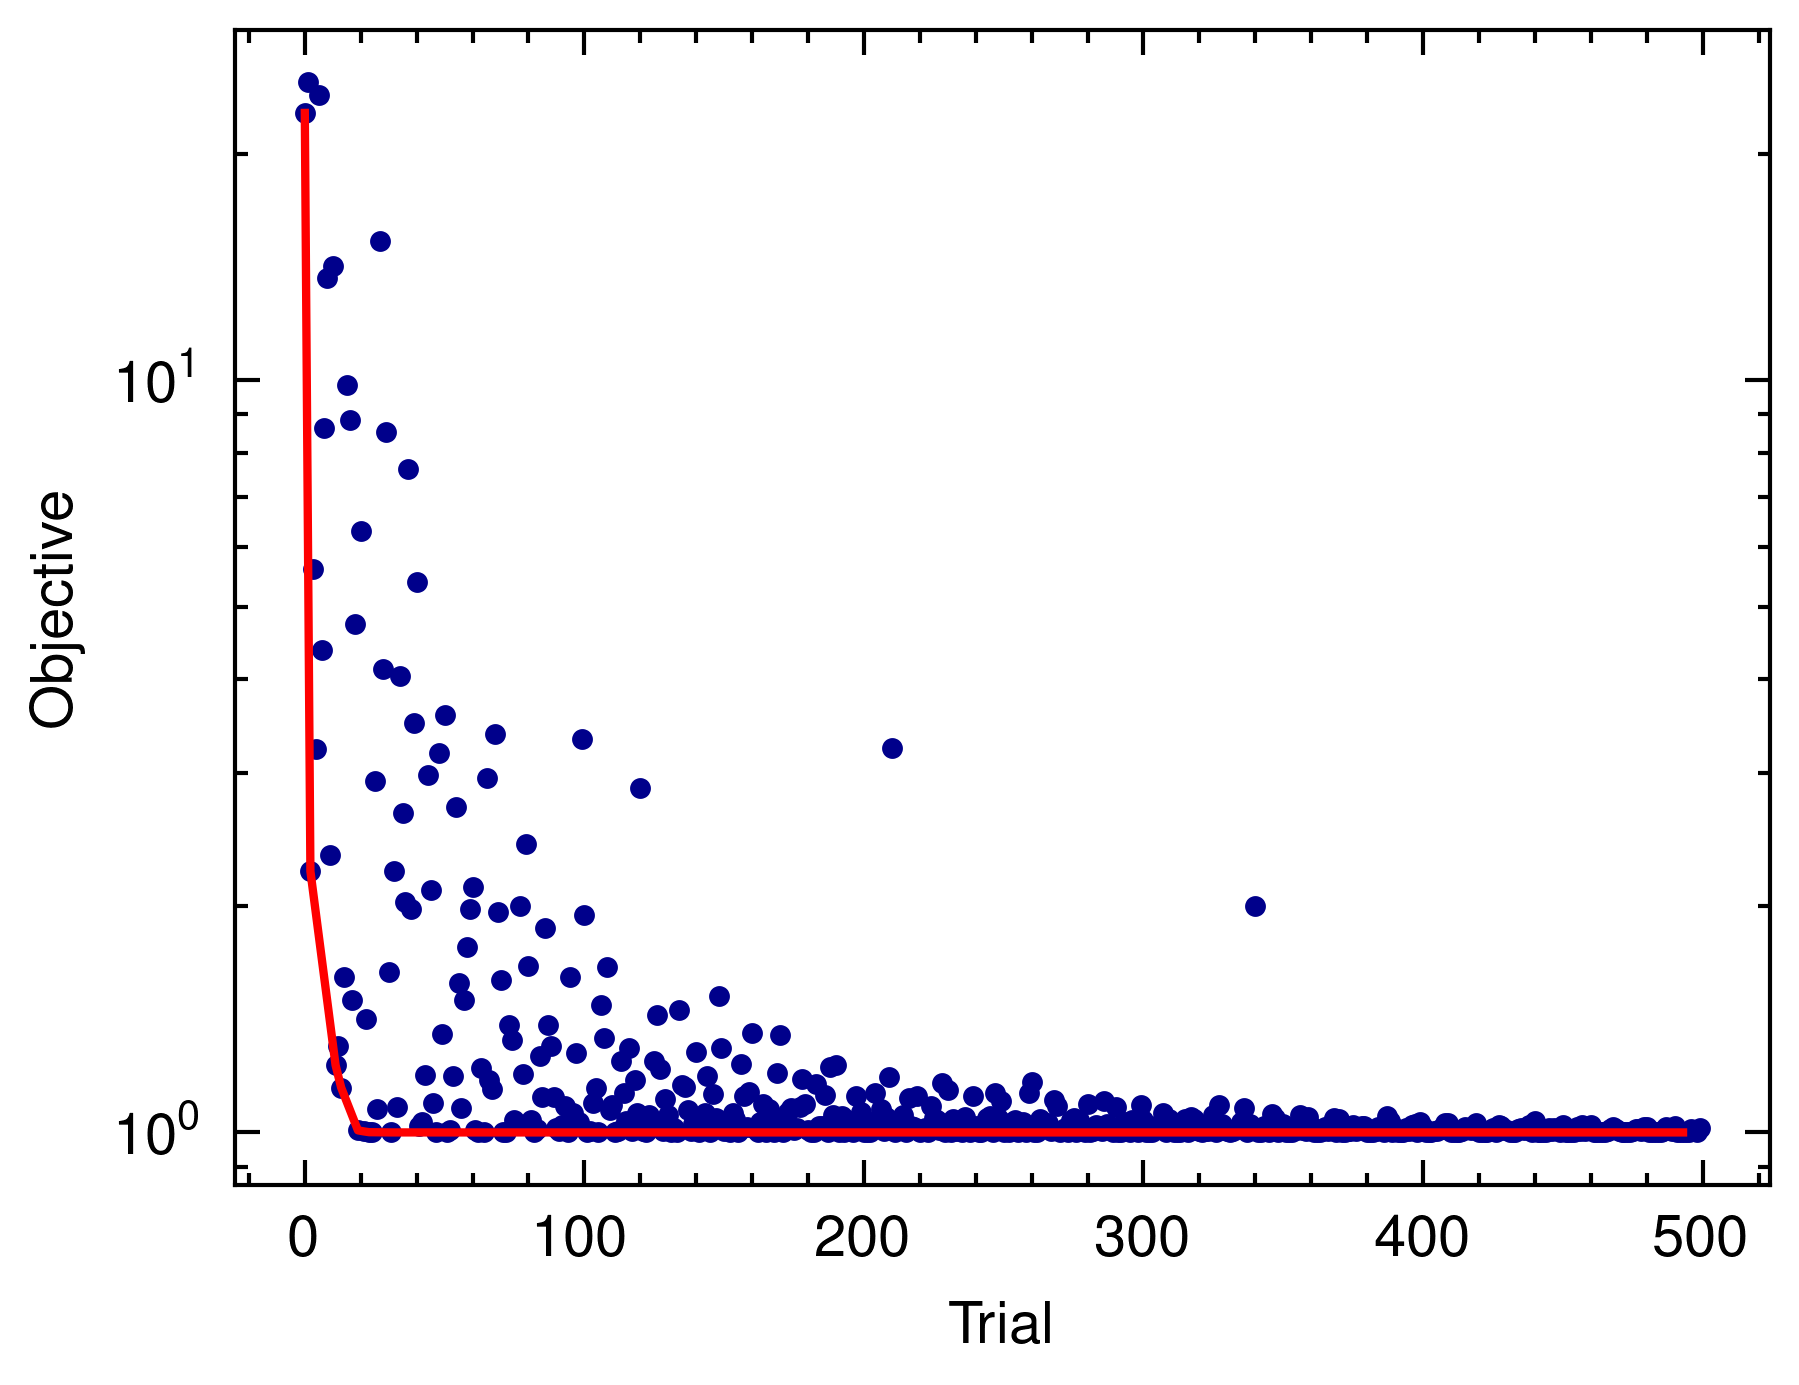
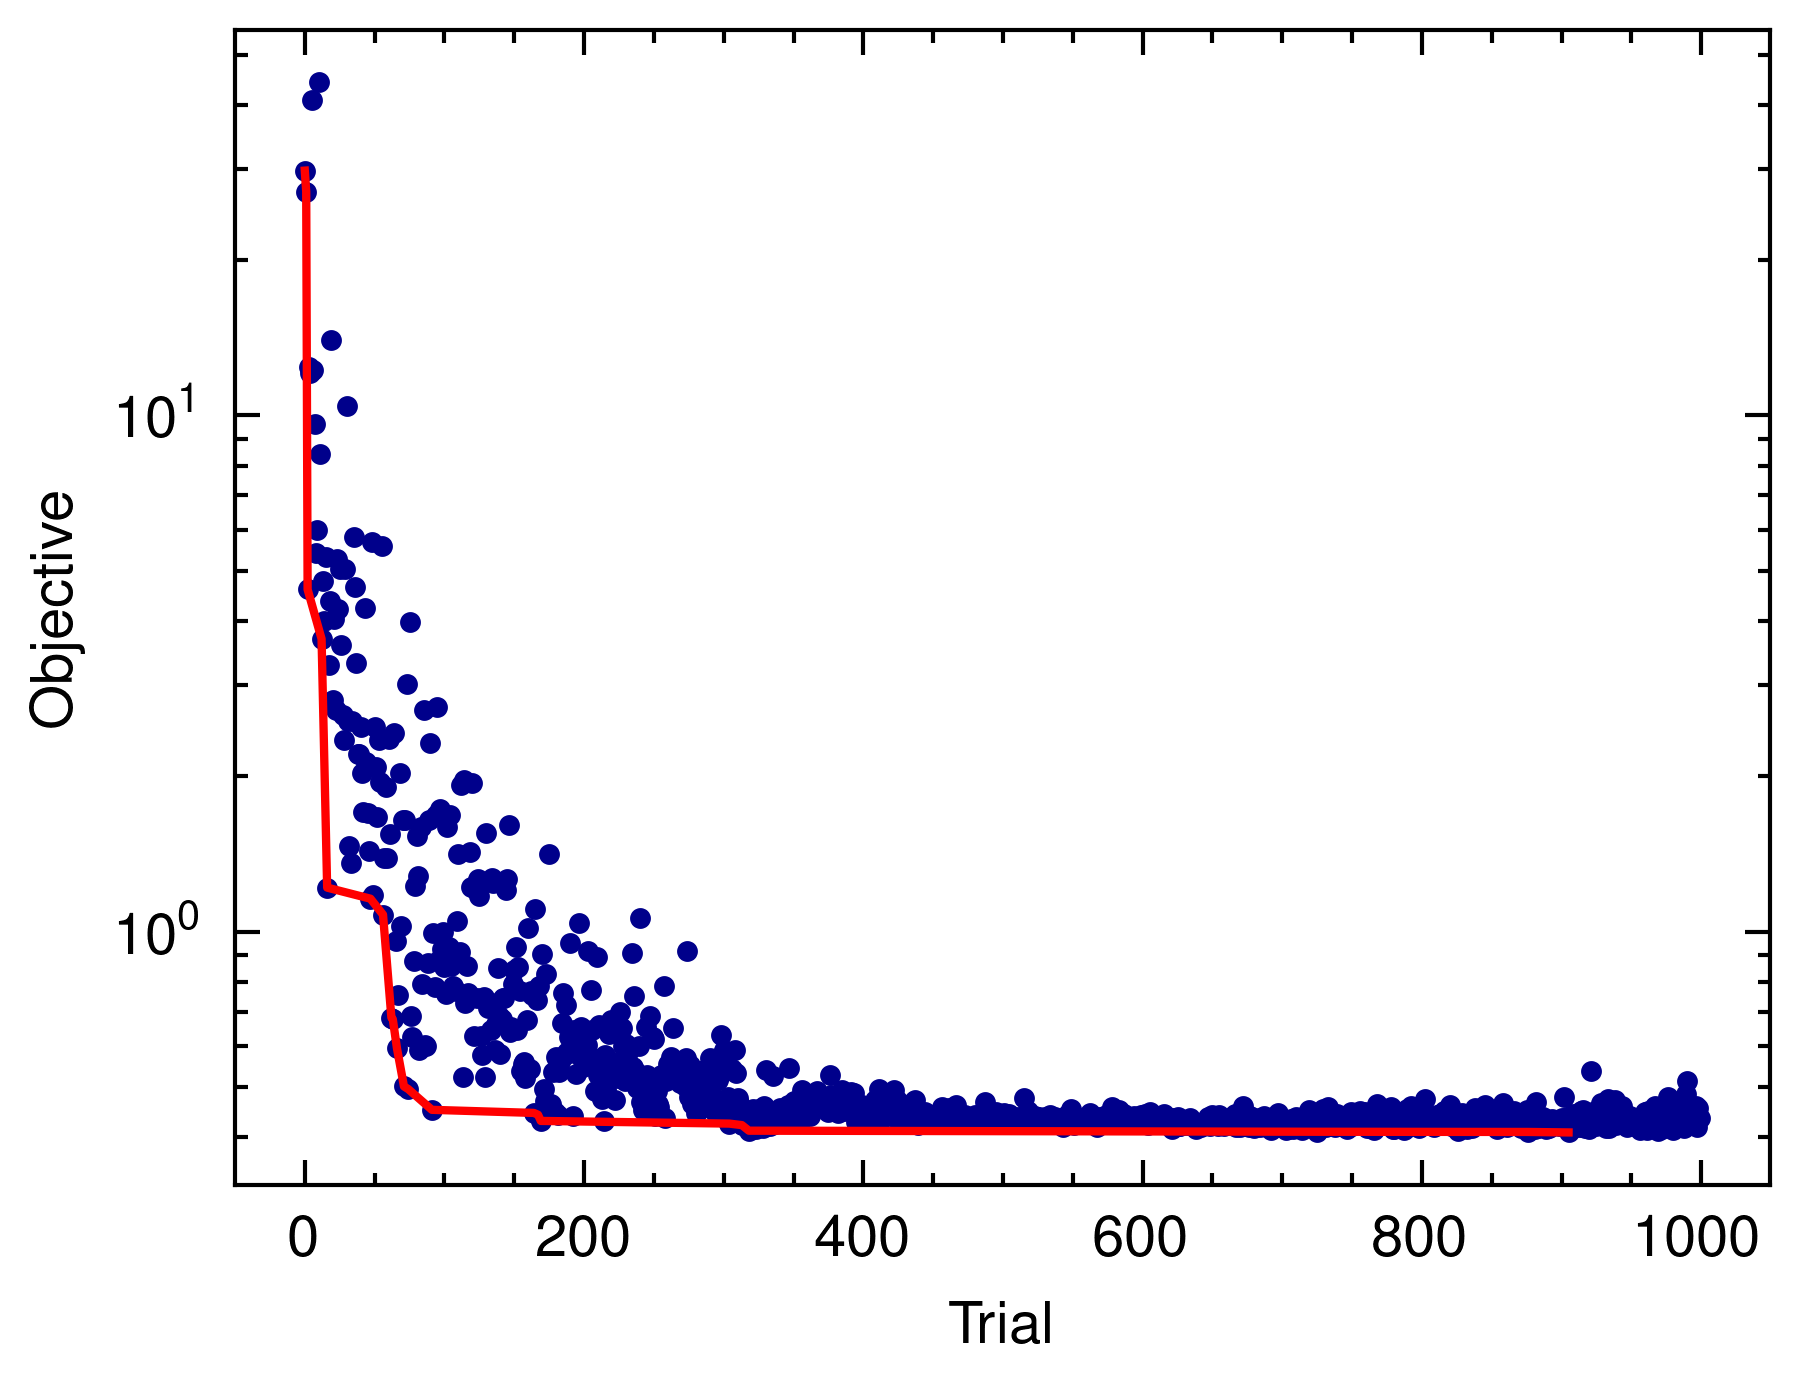
vs Levenberg Marquardt

diff --git a/src/main.rs b/src/main.rs
@@ -1,46 +1,79 @@
-use peroxide::fuga::*;
+use peroxide::{fuga::*, hstack};
 use rand::SeedableRng;
-use tpe::{categorical_range, histogram_estimator, parzen_estimator, range, TpeOptimizer};
+use tpe::{parzen_estimator, range, TpeOptimizer, TpeOptimizerBuilder};
+use indicatif::{ProgressBar, ProgressStyle};
 
 fn main() -> Result<(), Box<dyn std::error::Error>> {
-    let choices = [1, 2, 3];
-    let mut optim0 = TpeOptimizer::new(parzen_estimator(), range(-5.0, 5.0)?);
-    let mut optim1 = TpeOptimizer::new(histogram_estimator(), categorical_range(choices.len())?);
+    let noise = Normal(0., 0.5);
+    let p_true = vec![20f64, 10f64, 50f64];
+    let p_init = vec![5f64, 2f64, 10f64];
 
-    let n_trial = 500;
+    let domain = linspace(0, 100, 1000);
+    let y_model = model(&domain, &p_true);
+    let y_true = zip_with(|x, y| x + y, &y_model, &noise.sample(domain.len())); 
+    let data = hstack!(domain.clone(), y_true.clone());
 
-    let mut best_params = (0.0, 0);
+    // LM
+    let mut lm_optim = Optimizer::new(data, f);
+    let best_param_lm = lm_optim
+        .set_init_param(p_init.clone())
+        .set_max_iter(100)
+        .set_method(LevenbergMarquardt)
+        .optimize();
+    best_param_lm.print();
+    lm_optim.get_error().print();
+
+    // TPE
+    let mut tpe_optim = vec![];
+    for _ in 0 .. p_true.len() {
+        let mut tpe_optim_builder = TpeOptimizerBuilder::new();
+        tpe_optim_builder.gamma(0.2);
+        tpe_optim_builder.candidates(10);
+        let tpe_optimizer = tpe_optim_builder.build(parzen_estimator(), range(0.0, 100.0)?)?;
+        tpe_optim.push(tpe_optimizer);
+    }
+
+    let n_trial = 1000;
+
+    let mut best_params = p_init.clone();
     let mut best_trial = 0usize;
     let mut best_value = std::f64::INFINITY;
     let mut value_history = vec![0f64; n_trial];
-    let mut param_history = vec![(0.0, 0.0); n_trial];
+    let mut param_history = vec![vec![0f64; p_init.len()]; n_trial];
     let mut best_value_history = vec![];
 
     let mut rng = rand::rngs::StdRng::seed_from_u64(42);
+    let progress_bar = ProgressBar::new(n_trial as u64);
+    progress_bar.set_style(ProgressStyle::default_bar());
     for i in 0..n_trial {
-        let x = optim0.ask(&mut rng)?;
-        let y = optim1.ask(&mut rng)?;
-
-        let v = objective(x, choices[y as usize]);
-        optim0.tell(x, v)?;
-        optim1.tell(y, v)?;
-
-        if v < best_value {
-            best_params = (x, choices[y as usize]);
-            best_trial = i;
-            best_value = v;
-            best_value_history.push((best_trial as f64, best_value));
+        progress_bar.inc(1);
+        let mut p_tpe = vec![0f64; p_init.len()];
+        for i in 0 .. p_init.len() {
+            p_tpe[i] = tpe_optim[i].ask(&mut rng)?;
         }
 
-        value_history[i] = v;
-        param_history[i] = (x, choices[y as usize] as f64);
+        let y_tpe = model(&domain, &p_tpe);
+        let obj_tpe = objective(&y_true, &y_tpe);
+        for i in 0 .. p_init.len() {
+            tpe_optim[i].tell(p_tpe[i], obj_tpe)?;
+        }
+
+        if obj_tpe < best_value {
+            best_params.copy_from_slice(&p_tpe);
+            best_trial = i;
+            best_value = obj_tpe;
+            best_value_history.push((i as f64, obj_tpe));
+        }
+
+        value_history[i] = obj_tpe;
+        param_history[i] = p_tpe;
     }
 
     println!("Best params: {:?}", best_params);
     println!("Best trial: {}", best_trial);
     println!("Best value: {}", best_value);
 
-    let (x_history, y_history) = param_history.into_iter().unzip();
+    let param_history = py_matrix(param_history);
     let (best_trial_history, best_value_history) = best_value_history.into_iter().unzip();
 
     let x = seq(0, n_trial as i32 - 1, 1);
@@ -60,24 +93,65 @@ fn main() -> Result<(), Box<dyn std::error::Error>> {
         .set_path("optimize_history.png")
         .savefig()?;
 
+    let line_style_cand = vec![LineStyle::Solid, LineStyle::Dashed, LineStyle::Dotted, LineStyle::DashDot];
+    let line_style = (0 .. p_init.len()).map(|i| (i, line_style_cand[i % line_style_cand.len()])).collect();
     let mut plt = Plot2D::new();
-    plt.set_domain(x.clone())
-        .insert_image(x_history)
-        .insert_image(y_history)
+    plt.set_domain(x.clone());
+    for i in 0..p_init.len() {
+        plt.insert_image(param_history.col(i));
+    }
+    plt
         .set_xlabel("Trial")
         .set_ylabel("Params")
-        .set_plot_type(vec![(0, PlotType::Line), (1, PlotType::Scatter)])
-        .set_marker(vec![(1, Markers::Point)])
-        .set_legend(vec![r"$x$", r"$y$"])
-        .set_color(vec![(0, "darkblue"), (1, "red")])
+        .set_line_style(line_style)
+        .set_legend(vec![r"$p_0$", r"$p_1$", r"$p_2$"])
         .set_style(PlotStyle::Nature)
         .set_dpi(600)
         .set_path("parameter_history.png")
         .savefig()?;
 
+
+    // LM vs TPE
+    let mut plt = Plot2D::new();
+    plt
+        .set_domain(domain.clone())
+        .insert_image(y_true)
+        .insert_image(y_model)
+        .insert_image(model(&domain, &best_param_lm))
+        .insert_image(model(&domain, &best_params))
+        .set_plot_type(vec![(0, PlotType::Scatter), (1, PlotType::Line), (2, PlotType::Line), (3, PlotType::Line)])
+        .set_marker(vec![(0, Markers::Point)])
+        .set_line_style(vec![(1, LineStyle::Solid), (2, LineStyle::Dashed), (3, LineStyle::Dotted)])
+        .set_color(vec![(0, "blue"), (1, "black"), (2, "red"), (3, "green")])
+        .set_alpha(vec![(0, 0.2), (1, 0.7), (2, 0.6), (3, 0.6)])
+        .set_xlabel("x")
+        .set_ylabel("y")
+        .set_legend(vec!["Data", "True", "LM", "TPE"])
+        .set_style(PlotStyle::Nature)
+        .tight_layout()
+        .set_dpi(600)
+        .set_path("lm_tpe.png")
+        .savefig()?;
+
     Ok(())
 }
 
-fn objective(x: f64, y: i32) -> f64 {
-    x.powi(2) + y as f64
+fn model(x: &[f64], p: &[f64]) -> Vec<f64> {
+    x.iter().map(|&t| {
+        p[0] * (-t / p[1]).exp() + t * (-t / p[2]).exp()
+    }).collect()
+}
+
+fn objective(y: &[f64], y_hat: &[f64]) -> f64 {
+    let error: Vec<f64> = y.iter().zip(y_hat).map(|(&y, &y_hat)| (y - y_hat).abs()).collect();
+    error.mean()
+}
+
+fn f(domain: &Vec<f64>, p: Vec<AD>) -> Option<Vec<AD>> {
+    Some(
+        domain.clone().into_iter()
+            .map(|t| AD1(t, 0f64))
+            .map(|t| p[0] * (-t / p[1]).exp() + t * (-t / p[2]).exp())
+            .collect()
+    )
 }

diff --git a/README.md b/README.md
@@ -1,46 +1,53 @@
-# TPE Optimization Example
+# TPE Tutorial in Rust
 
-This project demonstrates the usage of the `tpe` crate in Rust for optimization using the Tree-structured Parzen Estimator (TPE) algorithm. The example optimizes a simple objective function with one continuous and one categorical variable.
+This project demonstrates how to perform parameter optimization using the Tree-structured Parzen Estimator (TPE) algorithm in Rust.
+It compares the performance of TPE with the Levenberg-Marquardt (LM) algorithm for fitting a model to noisy data.
+
+## Overview
+
+The main steps of the tutorial are:
+
+1. Generate noisy data from a true model with known parameters.
+2. Fit the model using the Levenberg-Marquardt algorithm.
+3. Perform parameter optimization using TPE.
+4. Compare the performance of LM and TPE.
 
 ## Dependencies
 
-- `tpe` crate for TPE optimization
-- `peroxide` crate for plotting
-- `rand` crate for random number generation
+The project uses the following Rust libraries:
 
-## Usage
+- `peroxide` for automatic differentiation and optimization.
+- `rand` for random number generation.
+- `tpe` for the TPE algorithm.
+- `indicatif` for progress bar visualization.
 
-1. Clone the repository and navigate to the project directory.
-2. Run the example using `cargo run`.
-3. The best parameters, trial, and value will be printed to the console.
-4. Two plots will be generated:
-   - `optimize_history.png`: Shows the objective value over trials, with the best value highlighted in red.
-   - `parameter_history.png`: Shows the history of the continuous and categorical variables over trials.
+For plot feature in `peroxide`, you need to install below python libraries:
+
+- `matplotlib` for plotting
+- `scienceplots` for nature style plots
 
 ## Results
 
-The optimization results are shown in the following plots:
+The tutorial generates three plots to visualize the results:
 
-### Objective Value History
+1. `optimize_history.png`: Shows the objective function value over the optimization trials for TPE.
 
-![Objective Value History](optimize_history.png)
+![Optimization History](optimize_history.png)
 
-This plot shows the objective value for each trial. The best value found during the optimization is highlighted in red.
-
-### Parameter History
+2. `parameter_history.png`: Displays the evolution of the model parameters during the TPE optimization.
 
 ![Parameter History](parameter_history.png)
 
-This plot shows the history of the continuous variable (x) and the categorical variable (y) over the trials. The continuous variable is plotted as a line, while the categorical variable is plotted as scattered points.
+3. `lm_tpe.png`: Compares the fitted models obtained by LM and TPE with the true model and noisy data.
 
-## Objective Function
+![LM vs TPE](lm_tpe.png)
 
-The objective function being optimized is a simple quadratic function with an additional term based on the categorical variable:
+## Usage
 
-```rust
-fn objective(x: f64, y: i32) -> f64 {
-    x.powi(2) + y as f64
-}
+To run the tutorial, ensure you have Rust installed, then execute:
+
+```bash
+cargo run --release
 ```
 
-The goal is to minimize this objective function using the TPE algorithm.
+The plots will be saved in the current directory.
